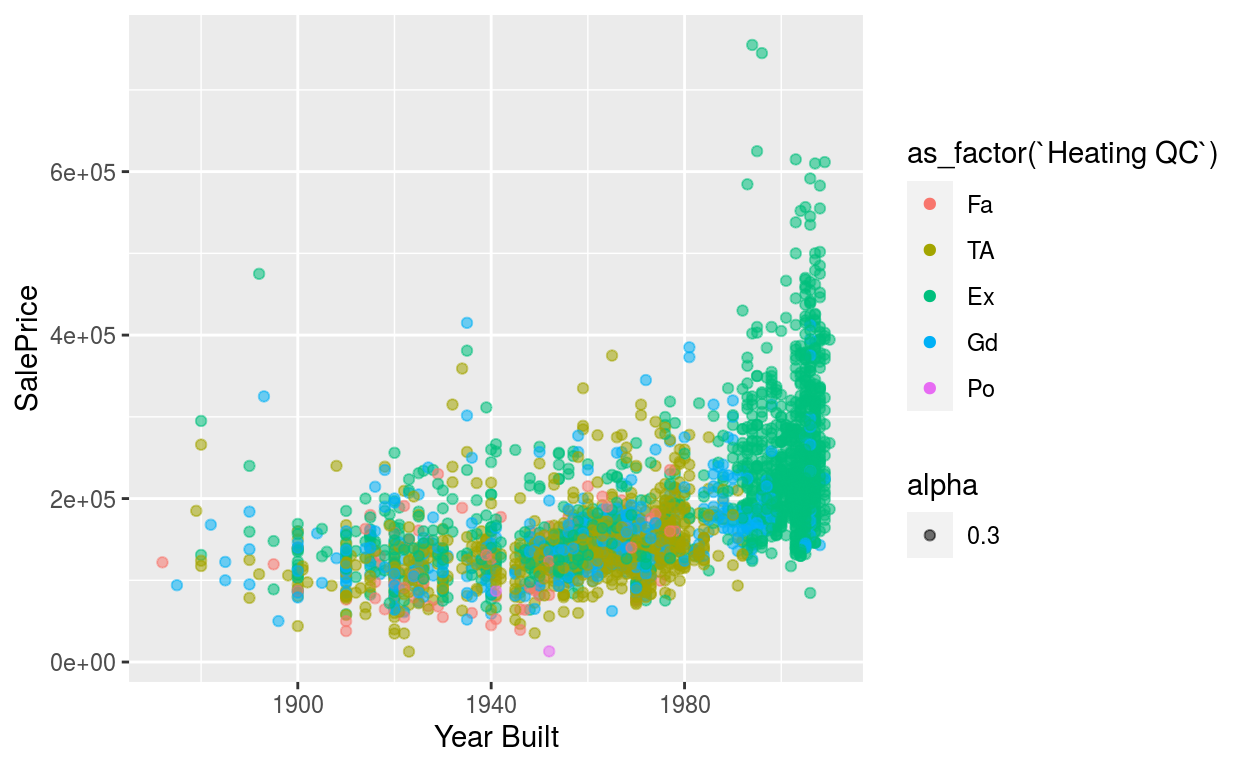
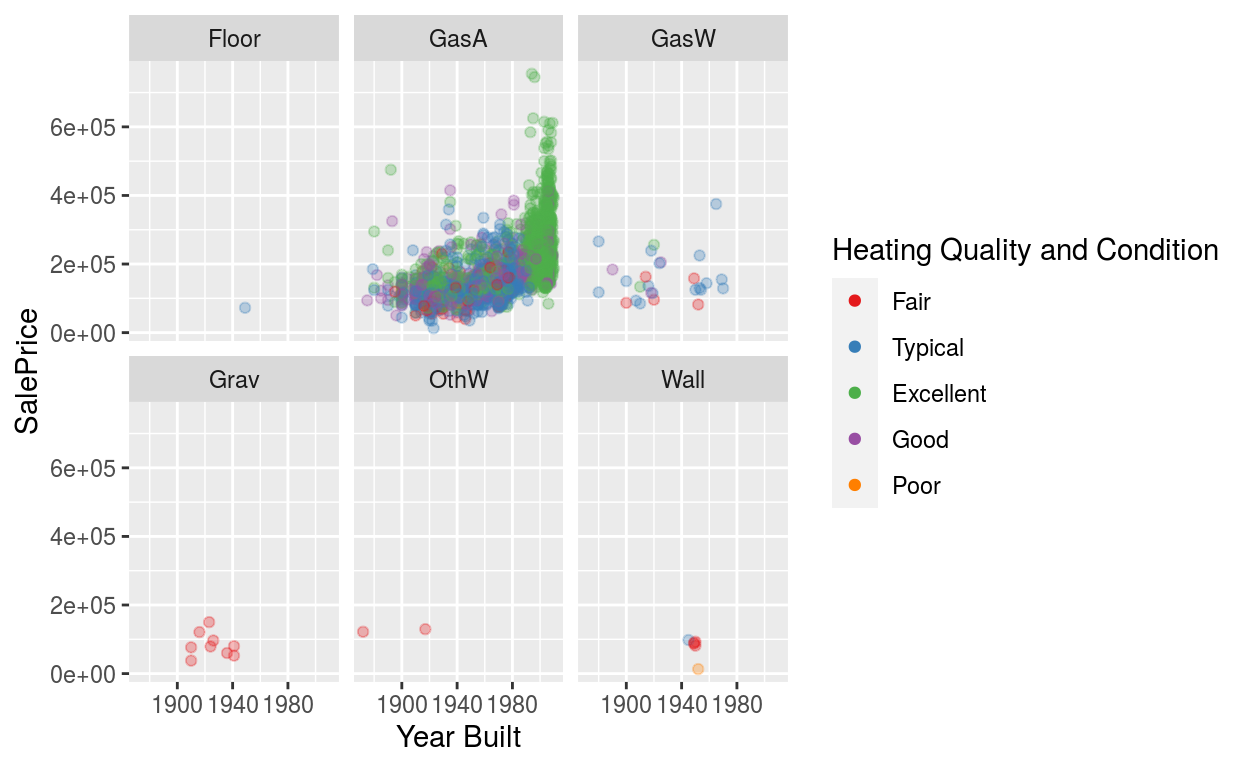
한번에!!!

diff --git a/_posts/2021-03-10-hw2/hw2.html b/_posts/2021-03-10-hw2/hw2.html
@@ -1530,59 +1530,38 @@ code span.wa { color: #5e5e5e; font-style: italic; } /* Warning */
 5 TA                   1992</code></pre>
 </div>
 <p>확인결과 최근에 지어질수록 난방시설이 좋아지고 집 가격이 올라갈 것이라고 생각하고 <strong>ggplot</strong> 을 이용하여 연도별 sale price에 대한 난방시설 그래프를 그려보자.</p>
-<p><strong>Step1. 그래프를 그릴 백지를 준비한다.</strong></p>
 <div class="layout-chunk" data-layout="l-body">
 <div class="sourceCode">
-<pre class="sourceCode r"><code class="sourceCode r"><span class='va'>p</span> <span class='op'>&lt;-</span> <span class='fu'><a href='https://ggplot2.tidyverse.org/reference/ggplot.html'>ggplot</a></span><span class='op'>(</span><span class='va'>ames_raw</span><span class='op'>)</span>
-<span class='va'>p</span>
+<pre class="sourceCode r"><code class="sourceCode r"><span class='va'>hqc</span> <span class='op'>&lt;-</span> <span class='fu'><a href='https://ggplot2.tidyverse.org/reference/guide_legend.html'>guide_legend</a></span><span class='op'>(</span>title <span class='op'>=</span> <span class='st'>"Heating Quality and Condition"</span>, nrow <span class='op'>=</span> <span class='fl'>5</span><span class='op'>)</span>
+<span class='va'>ames_raw</span> <span class='op'>%&gt;%</span> 
+  <span class='fu'>group_by</span><span class='op'>(</span><span class='va'>`Heating QC`</span><span class='op'>)</span> <span class='op'>%&gt;%</span>
+  <span class='fu'><a href='https://ggplot2.tidyverse.org/reference/ggplot.html'>ggplot</a></span><span class='op'>(</span><span class='fu'><a href='https://ggplot2.tidyverse.org/reference/aes.html'>aes</a></span><span class='op'>(</span>x<span class='op'>=</span><span class='va'>`Year Built`</span>,y<span class='op'>=</span><span class='va'>SalePrice</span><span class='op'>)</span><span class='op'>)</span> <span class='op'>+</span> 
+  <span class='fu'><a href='https://ggplot2.tidyverse.org/reference/geom_point.html'>geom_point</a></span><span class='op'>(</span><span class='fu'><a href='https://ggplot2.tidyverse.org/reference/aes.html'>aes</a></span><span class='op'>(</span>color<span class='op'>=</span><span class='fu'>as_factor</span><span class='op'>(</span><span class='va'>`Heating QC`</span><span class='op'>)</span>,alpha<span class='op'>=</span><span class='fl'>0.3</span><span class='op'>)</span><span class='op'>)</span><span class='op'>+</span>
+  <span class='fu'><a href='https://ggplot2.tidyverse.org/reference/scale_brewer.html'>scale_color_brewer</a></span><span class='op'>(</span>palette <span class='op'>=</span> <span class='st'>"Set1"</span>,
+                     labels <span class='op'>=</span> <span class='fu'><a href='https://rdrr.io/r/base/c.html'>c</a></span><span class='op'>(</span><span class='st'>"Fair"</span>, <span class='st'>"Typical"</span>, <span class='st'>"Excellent"</span>, <span class='st'>"Good"</span>, <span class='st'>"Poor"</span><span class='op'>)</span><span class='op'>)</span><span class='op'>+</span> 
+  <span class='fu'><a href='https://ggplot2.tidyverse.org/reference/scale_identity.html'>scale_alpha_identity</a></span><span class='op'>(</span><span class='fl'>0.3</span><span class='op'>)</span> <span class='op'>+</span> 
+  <span class='fu'><a href='https://ggplot2.tidyverse.org/reference/guides.html'>guides</a></span><span class='op'>(</span>color <span class='op'>=</span> <span class='va'>hqc</span><span class='op'>)</span> <span class='op'>+</span>
+  <span class='fu'><a href='https://ggplot2.tidyverse.org/reference/theme.html'>theme</a></span><span class='op'>(</span>legend.position <span class='op'>=</span> <span class='st'>"right"</span><span class='op'>)</span>
 </code></pre>
 </div>
 <p><img src="hw2_files/figure-html5/unnamed-chunk-4-1.png" width="624" /></p>
 </div>
-<p><strong>Step2. 그래프의 축을 정해주고 난방시설의 quality를 그룹화하여 각각 다른 색의 point로 표현한다.</strong></p>
-<div class="layout-chunk" data-layout="l-body">
-<div class="sourceCode">
-<pre class="sourceCode r"><code class="sourceCode r"><span class='va'>p</span> <span class='op'>&lt;-</span> <span class='va'>ames_raw</span> <span class='op'>%&gt;%</span> 
-  <span class='fu'>group_by</span><span class='op'>(</span><span class='va'>`Heating QC`</span><span class='op'>)</span> <span class='op'>%&gt;%</span>
-  <span class='fu'><a href='https://ggplot2.tidyverse.org/reference/ggplot.html'>ggplot</a></span><span class='op'>(</span><span class='fu'><a href='https://ggplot2.tidyverse.org/reference/aes.html'>aes</a></span><span class='op'>(</span>x<span class='op'>=</span><span class='va'>`Year Built`</span>,y<span class='op'>=</span><span class='va'>SalePrice</span><span class='op'>)</span><span class='op'>)</span> <span class='op'>+</span> 
-  <span class='fu'><a href='https://ggplot2.tidyverse.org/reference/geom_point.html'>geom_point</a></span><span class='op'>(</span><span class='fu'><a href='https://ggplot2.tidyverse.org/reference/aes.html'>aes</a></span><span class='op'>(</span>color<span class='op'>=</span><span class='fu'>as_factor</span><span class='op'>(</span><span class='va'>`Heating QC`</span><span class='op'>)</span>,alpha<span class='op'>=</span><span class='fl'>0.3</span><span class='op'>)</span><span class='op'>)</span>
-<span class='va'>p</span>
-</code></pre>
-</div>
-<p><img src="hw2_files/figure-html5/unnamed-chunk-5-1.png" width="624" /></p>
-</div>
-<p><strong>Step3. point의 구분이 쉽도록 색을 지정해주며, 범례의 이름을 수정해준다.</strong></p>
-<div class="layout-chunk" data-layout="l-body">
-<div class="sourceCode">
-<pre class="sourceCode r"><code class="sourceCode r"><span class='va'>p</span> <span class='op'>&lt;-</span> <span class='va'>p</span> <span class='op'>+</span> 
-  <span class='fu'><a href='https://ggplot2.tidyverse.org/reference/scale_brewer.html'>scale_color_brewer</a></span><span class='op'>(</span>palette <span class='op'>=</span> <span class='st'>"Set1"</span>,
-                     labels <span class='op'>=</span> <span class='fu'><a href='https://rdrr.io/r/base/c.html'>c</a></span><span class='op'>(</span><span class='st'>"Fair"</span>, <span class='st'>"Typical"</span>, <span class='st'>"Excellent"</span>, <span class='st'>"Good"</span>, <span class='st'>"Poor"</span><span class='op'>)</span><span class='op'>)</span><span class='op'>+</span> 
-  <span class='fu'><a href='https://ggplot2.tidyverse.org/reference/scale_identity.html'>scale_alpha_identity</a></span><span class='op'>(</span><span class='fl'>0.3</span><span class='op'>)</span>
-<span class='va'>p</span>
-</code></pre>
-</div>
-<p><img src="hw2_files/figure-html5/unnamed-chunk-6-1.png" width="624" /></p>
-</div>
-<p><strong>Step4. 범례의 제목을 바꾸고 위치를 조정한다.</strong></p>
+<p><strong>위 그래프들을 난방 종류에 따라 나누어본다.</strong></p>
 <div class="layout-chunk" data-layout="l-body">
 <div class="sourceCode">
 <pre class="sourceCode r"><code class="sourceCode r"><span class='va'>hqc</span> <span class='op'>&lt;-</span> <span class='fu'><a href='https://ggplot2.tidyverse.org/reference/guide_legend.html'>guide_legend</a></span><span class='op'>(</span>title <span class='op'>=</span> <span class='st'>"Heating Quality and Condition"</span>, nrow <span class='op'>=</span> <span class='fl'>5</span><span class='op'>)</span>
-<span class='va'>p</span> <span class='op'>&lt;-</span> <span class='va'>p</span> <span class='op'>+</span> 
+<span class='va'>ames_raw</span> <span class='op'>%&gt;%</span> 
+  <span class='fu'>group_by</span><span class='op'>(</span><span class='va'>`Heating QC`</span><span class='op'>)</span> <span class='op'>%&gt;%</span>
+  <span class='fu'><a href='https://ggplot2.tidyverse.org/reference/ggplot.html'>ggplot</a></span><span class='op'>(</span><span class='fu'><a href='https://ggplot2.tidyverse.org/reference/aes.html'>aes</a></span><span class='op'>(</span>x<span class='op'>=</span><span class='va'>`Year Built`</span>,y<span class='op'>=</span><span class='va'>SalePrice</span><span class='op'>)</span><span class='op'>)</span> <span class='op'>+</span> 
+  <span class='fu'><a href='https://ggplot2.tidyverse.org/reference/geom_point.html'>geom_point</a></span><span class='op'>(</span><span class='fu'><a href='https://ggplot2.tidyverse.org/reference/aes.html'>aes</a></span><span class='op'>(</span>color<span class='op'>=</span><span class='fu'>as_factor</span><span class='op'>(</span><span class='va'>`Heating QC`</span><span class='op'>)</span>,alpha<span class='op'>=</span><span class='fl'>0.3</span><span class='op'>)</span><span class='op'>)</span><span class='op'>+</span>
+  <span class='fu'><a href='https://ggplot2.tidyverse.org/reference/scale_brewer.html'>scale_color_brewer</a></span><span class='op'>(</span>palette <span class='op'>=</span> <span class='st'>"Set1"</span>,
+                     labels <span class='op'>=</span> <span class='fu'><a href='https://rdrr.io/r/base/c.html'>c</a></span><span class='op'>(</span><span class='st'>"Fair"</span>, <span class='st'>"Typical"</span>, <span class='st'>"Excellent"</span>, <span class='st'>"Good"</span>, <span class='st'>"Poor"</span><span class='op'>)</span><span class='op'>)</span><span class='op'>+</span> 
+  <span class='fu'><a href='https://ggplot2.tidyverse.org/reference/scale_identity.html'>scale_alpha_identity</a></span><span class='op'>(</span><span class='fl'>0.3</span><span class='op'>)</span> <span class='op'>+</span> 
   <span class='fu'><a href='https://ggplot2.tidyverse.org/reference/guides.html'>guides</a></span><span class='op'>(</span>color <span class='op'>=</span> <span class='va'>hqc</span><span class='op'>)</span> <span class='op'>+</span>
-  <span class='fu'><a href='https://ggplot2.tidyverse.org/reference/theme.html'>theme</a></span><span class='op'>(</span>legend.position <span class='op'>=</span> <span class='st'>"right"</span><span class='op'>)</span>
-<span class='va'>p</span>
+  <span class='fu'><a href='https://ggplot2.tidyverse.org/reference/theme.html'>theme</a></span><span class='op'>(</span>legend.position <span class='op'>=</span> <span class='st'>"right"</span><span class='op'>)</span> <span class='op'>+</span> <span class='fu'><a href='https://ggplot2.tidyverse.org/reference/facet_wrap.html'>facet_wrap</a></span><span class='op'>(</span><span class='st'>'Heating'</span><span class='op'>)</span>
 </code></pre>
 </div>
-<p><img src="hw2_files/figure-html5/unnamed-chunk-7-1.png" width="624" /></p>
-</div>
-<p><strong>Step5. 위 그래프들을 난방 종류에 따라 나누어본다.</strong></p>
-<div class="layout-chunk" data-layout="l-body">
-<div class="sourceCode">
-<pre class="sourceCode r"><code class="sourceCode r"><span class='va'>p</span> <span class='op'>&lt;-</span> <span class='va'>p</span> <span class='op'>+</span> <span class='fu'><a href='https://ggplot2.tidyverse.org/reference/facet_wrap.html'>facet_wrap</a></span><span class='op'>(</span><span class='st'>'Heating'</span><span class='op'>)</span>
-<span class='va'>p</span>
-</code></pre>
-</div>
-<p><img src="hw2_files/figure-html5/unnamed-chunk-8-1.png" width="624" /></p>
+<p><img src="hw2_files/figure-html5/unnamed-chunk-5-1.png" width="624" /></p>
 </div>
 <p>난방 종류별로 나누어본 결과 난방시설이 Excellent(초록색점)인 것은 모두 GasA(Gas forced warm air furnace를 사용하고 있는 것을 알 수 있다. 그럼 AmesHousing dataset을 GasA인 것만 필터링하여 좀 더 살펴 보자.</p>
 <h1 id="gasa">2. GasA</h1>

diff --git a/docs/posts/2021-03-10-hw2/index.html b/docs/posts/2021-03-10-hw2/index.html
@@ -2166,59 +2166,38 @@ document.addEventListener('DOMContentLoaded', function() {
 5 TA                   1992</code></pre>
 </div>
 <p>확인결과 최근에 지어질수록 난방시설이 좋아지고 집 가격이 올라갈 것이라고 생각하고 <strong>ggplot</strong> 을 이용하여 연도별 sale price에 대한 난방시설 그래프를 그려보자.</p>
-<p><strong>Step1. 그래프를 그릴 백지를 준비한다.</strong></p>
 <div class="layout-chunk" data-layout="l-body">
 <div class="sourceCode">
-<pre class="sourceCode r"><code class="sourceCode r"><span class='va'>p</span> <span class='op'>&lt;-</span> <span class='fu'><a href='https://ggplot2.tidyverse.org/reference/ggplot.html'>ggplot</a></span><span class='op'>(</span><span class='va'>ames_raw</span><span class='op'>)</span>
-<span class='va'>p</span>
+<pre class="sourceCode r"><code class="sourceCode r"><span class='va'>hqc</span> <span class='op'>&lt;-</span> <span class='fu'><a href='https://ggplot2.tidyverse.org/reference/guide_legend.html'>guide_legend</a></span><span class='op'>(</span>title <span class='op'>=</span> <span class='st'>"Heating Quality and Condition"</span>, nrow <span class='op'>=</span> <span class='fl'>5</span><span class='op'>)</span>
+<span class='va'>ames_raw</span> <span class='op'>%&gt;%</span> 
+  <span class='fu'>group_by</span><span class='op'>(</span><span class='va'>`Heating QC`</span><span class='op'>)</span> <span class='op'>%&gt;%</span>
+  <span class='fu'><a href='https://ggplot2.tidyverse.org/reference/ggplot.html'>ggplot</a></span><span class='op'>(</span><span class='fu'><a href='https://ggplot2.tidyverse.org/reference/aes.html'>aes</a></span><span class='op'>(</span>x<span class='op'>=</span><span class='va'>`Year Built`</span>,y<span class='op'>=</span><span class='va'>SalePrice</span><span class='op'>)</span><span class='op'>)</span> <span class='op'>+</span> 
+  <span class='fu'><a href='https://ggplot2.tidyverse.org/reference/geom_point.html'>geom_point</a></span><span class='op'>(</span><span class='fu'><a href='https://ggplot2.tidyverse.org/reference/aes.html'>aes</a></span><span class='op'>(</span>color<span class='op'>=</span><span class='fu'>as_factor</span><span class='op'>(</span><span class='va'>`Heating QC`</span><span class='op'>)</span>,alpha<span class='op'>=</span><span class='fl'>0.3</span><span class='op'>)</span><span class='op'>)</span><span class='op'>+</span>
+  <span class='fu'><a href='https://ggplot2.tidyverse.org/reference/scale_brewer.html'>scale_color_brewer</a></span><span class='op'>(</span>palette <span class='op'>=</span> <span class='st'>"Set1"</span>,
+                     labels <span class='op'>=</span> <span class='fu'><a href='https://rdrr.io/r/base/c.html'>c</a></span><span class='op'>(</span><span class='st'>"Fair"</span>, <span class='st'>"Typical"</span>, <span class='st'>"Excellent"</span>, <span class='st'>"Good"</span>, <span class='st'>"Poor"</span><span class='op'>)</span><span class='op'>)</span><span class='op'>+</span> 
+  <span class='fu'><a href='https://ggplot2.tidyverse.org/reference/scale_identity.html'>scale_alpha_identity</a></span><span class='op'>(</span><span class='fl'>0.3</span><span class='op'>)</span> <span class='op'>+</span> 
+  <span class='fu'><a href='https://ggplot2.tidyverse.org/reference/guides.html'>guides</a></span><span class='op'>(</span>color <span class='op'>=</span> <span class='va'>hqc</span><span class='op'>)</span> <span class='op'>+</span>
+  <span class='fu'><a href='https://ggplot2.tidyverse.org/reference/theme.html'>theme</a></span><span class='op'>(</span>legend.position <span class='op'>=</span> <span class='st'>"right"</span><span class='op'>)</span>
 </code></pre>
 </div>
 <p><img src="hw2_files/figure-html5/unnamed-chunk-4-1.png" width="624" /></p>
 </div>
-<p><strong>Step2. 그래프의 축을 정해주고 난방시설의 quality를 그룹화하여 각각 다른 색의 point로 표현한다.</strong></p>
-<div class="layout-chunk" data-layout="l-body">
-<div class="sourceCode">
-<pre class="sourceCode r"><code class="sourceCode r"><span class='va'>p</span> <span class='op'>&lt;-</span> <span class='va'>ames_raw</span> <span class='op'>%&gt;%</span> 
-  <span class='fu'>group_by</span><span class='op'>(</span><span class='va'>`Heating QC`</span><span class='op'>)</span> <span class='op'>%&gt;%</span>
-  <span class='fu'><a href='https://ggplot2.tidyverse.org/reference/ggplot.html'>ggplot</a></span><span class='op'>(</span><span class='fu'><a href='https://ggplot2.tidyverse.org/reference/aes.html'>aes</a></span><span class='op'>(</span>x<span class='op'>=</span><span class='va'>`Year Built`</span>,y<span class='op'>=</span><span class='va'>SalePrice</span><span class='op'>)</span><span class='op'>)</span> <span class='op'>+</span> 
-  <span class='fu'><a href='https://ggplot2.tidyverse.org/reference/geom_point.html'>geom_point</a></span><span class='op'>(</span><span class='fu'><a href='https://ggplot2.tidyverse.org/reference/aes.html'>aes</a></span><span class='op'>(</span>color<span class='op'>=</span><span class='fu'>as_factor</span><span class='op'>(</span><span class='va'>`Heating QC`</span><span class='op'>)</span>,alpha<span class='op'>=</span><span class='fl'>0.3</span><span class='op'>)</span><span class='op'>)</span>
-<span class='va'>p</span>
-</code></pre>
-</div>
-<p><img src="hw2_files/figure-html5/unnamed-chunk-5-1.png" width="624" /></p>
-</div>
-<p><strong>Step3. point의 구분이 쉽도록 색을 지정해주며, 범례의 이름을 수정해준다.</strong></p>
-<div class="layout-chunk" data-layout="l-body">
-<div class="sourceCode">
-<pre class="sourceCode r"><code class="sourceCode r"><span class='va'>p</span> <span class='op'>&lt;-</span> <span class='va'>p</span> <span class='op'>+</span> 
-  <span class='fu'><a href='https://ggplot2.tidyverse.org/reference/scale_brewer.html'>scale_color_brewer</a></span><span class='op'>(</span>palette <span class='op'>=</span> <span class='st'>"Set1"</span>,
-                     labels <span class='op'>=</span> <span class='fu'><a href='https://rdrr.io/r/base/c.html'>c</a></span><span class='op'>(</span><span class='st'>"Fair"</span>, <span class='st'>"Typical"</span>, <span class='st'>"Excellent"</span>, <span class='st'>"Good"</span>, <span class='st'>"Poor"</span><span class='op'>)</span><span class='op'>)</span><span class='op'>+</span> 
-  <span class='fu'><a href='https://ggplot2.tidyverse.org/reference/scale_identity.html'>scale_alpha_identity</a></span><span class='op'>(</span><span class='fl'>0.3</span><span class='op'>)</span>
-<span class='va'>p</span>
-</code></pre>
-</div>
-<p><img src="hw2_files/figure-html5/unnamed-chunk-6-1.png" width="624" /></p>
-</div>
-<p><strong>Step4. 범례의 제목을 바꾸고 위치를 조정한다.</strong></p>
+<p><strong>위 그래프들을 난방 종류에 따라 나누어본다.</strong></p>
 <div class="layout-chunk" data-layout="l-body">
 <div class="sourceCode">
 <pre class="sourceCode r"><code class="sourceCode r"><span class='va'>hqc</span> <span class='op'>&lt;-</span> <span class='fu'><a href='https://ggplot2.tidyverse.org/reference/guide_legend.html'>guide_legend</a></span><span class='op'>(</span>title <span class='op'>=</span> <span class='st'>"Heating Quality and Condition"</span>, nrow <span class='op'>=</span> <span class='fl'>5</span><span class='op'>)</span>
-<span class='va'>p</span> <span class='op'>&lt;-</span> <span class='va'>p</span> <span class='op'>+</span> 
+<span class='va'>ames_raw</span> <span class='op'>%&gt;%</span> 
+  <span class='fu'>group_by</span><span class='op'>(</span><span class='va'>`Heating QC`</span><span class='op'>)</span> <span class='op'>%&gt;%</span>
+  <span class='fu'><a href='https://ggplot2.tidyverse.org/reference/ggplot.html'>ggplot</a></span><span class='op'>(</span><span class='fu'><a href='https://ggplot2.tidyverse.org/reference/aes.html'>aes</a></span><span class='op'>(</span>x<span class='op'>=</span><span class='va'>`Year Built`</span>,y<span class='op'>=</span><span class='va'>SalePrice</span><span class='op'>)</span><span class='op'>)</span> <span class='op'>+</span> 
+  <span class='fu'><a href='https://ggplot2.tidyverse.org/reference/geom_point.html'>geom_point</a></span><span class='op'>(</span><span class='fu'><a href='https://ggplot2.tidyverse.org/reference/aes.html'>aes</a></span><span class='op'>(</span>color<span class='op'>=</span><span class='fu'>as_factor</span><span class='op'>(</span><span class='va'>`Heating QC`</span><span class='op'>)</span>,alpha<span class='op'>=</span><span class='fl'>0.3</span><span class='op'>)</span><span class='op'>)</span><span class='op'>+</span>
+  <span class='fu'><a href='https://ggplot2.tidyverse.org/reference/scale_brewer.html'>scale_color_brewer</a></span><span class='op'>(</span>palette <span class='op'>=</span> <span class='st'>"Set1"</span>,
+                     labels <span class='op'>=</span> <span class='fu'><a href='https://rdrr.io/r/base/c.html'>c</a></span><span class='op'>(</span><span class='st'>"Fair"</span>, <span class='st'>"Typical"</span>, <span class='st'>"Excellent"</span>, <span class='st'>"Good"</span>, <span class='st'>"Poor"</span><span class='op'>)</span><span class='op'>)</span><span class='op'>+</span> 
+  <span class='fu'><a href='https://ggplot2.tidyverse.org/reference/scale_identity.html'>scale_alpha_identity</a></span><span class='op'>(</span><span class='fl'>0.3</span><span class='op'>)</span> <span class='op'>+</span> 
   <span class='fu'><a href='https://ggplot2.tidyverse.org/reference/guides.html'>guides</a></span><span class='op'>(</span>color <span class='op'>=</span> <span class='va'>hqc</span><span class='op'>)</span> <span class='op'>+</span>
-  <span class='fu'><a href='https://ggplot2.tidyverse.org/reference/theme.html'>theme</a></span><span class='op'>(</span>legend.position <span class='op'>=</span> <span class='st'>"right"</span><span class='op'>)</span>
-<span class='va'>p</span>
+  <span class='fu'><a href='https://ggplot2.tidyverse.org/reference/theme.html'>theme</a></span><span class='op'>(</span>legend.position <span class='op'>=</span> <span class='st'>"right"</span><span class='op'>)</span> <span class='op'>+</span> <span class='fu'><a href='https://ggplot2.tidyverse.org/reference/facet_wrap.html'>facet_wrap</a></span><span class='op'>(</span><span class='st'>'Heating'</span><span class='op'>)</span>
 </code></pre>
 </div>
-<p><img src="hw2_files/figure-html5/unnamed-chunk-7-1.png" width="624" /></p>
-</div>
-<p><strong>Step5. 위 그래프들을 난방 종류에 따라 나누어본다.</strong></p>
-<div class="layout-chunk" data-layout="l-body">
-<div class="sourceCode">
-<pre class="sourceCode r"><code class="sourceCode r"><span class='va'>p</span> <span class='op'>&lt;-</span> <span class='va'>p</span> <span class='op'>+</span> <span class='fu'><a href='https://ggplot2.tidyverse.org/reference/facet_wrap.html'>facet_wrap</a></span><span class='op'>(</span><span class='st'>'Heating'</span><span class='op'>)</span>
-<span class='va'>p</span>
-</code></pre>
-</div>
-<p><img src="hw2_files/figure-html5/unnamed-chunk-8-1.png" width="624" /></p>
+<p><img src="hw2_files/figure-html5/unnamed-chunk-5-1.png" width="624" /></p>
 </div>
 <p>난방 종류별로 나누어본 결과 난방시설이 Excellent(초록색점)인 것은 모두 GasA(Gas forced warm air furnace를 사용하고 있는 것을 알 수 있다. 그럼 AmesHousing dataset을 GasA인 것만 필터링하여 좀 더 살펴 보자.</p>
 <h1 id="gasa">2. GasA</h1>
